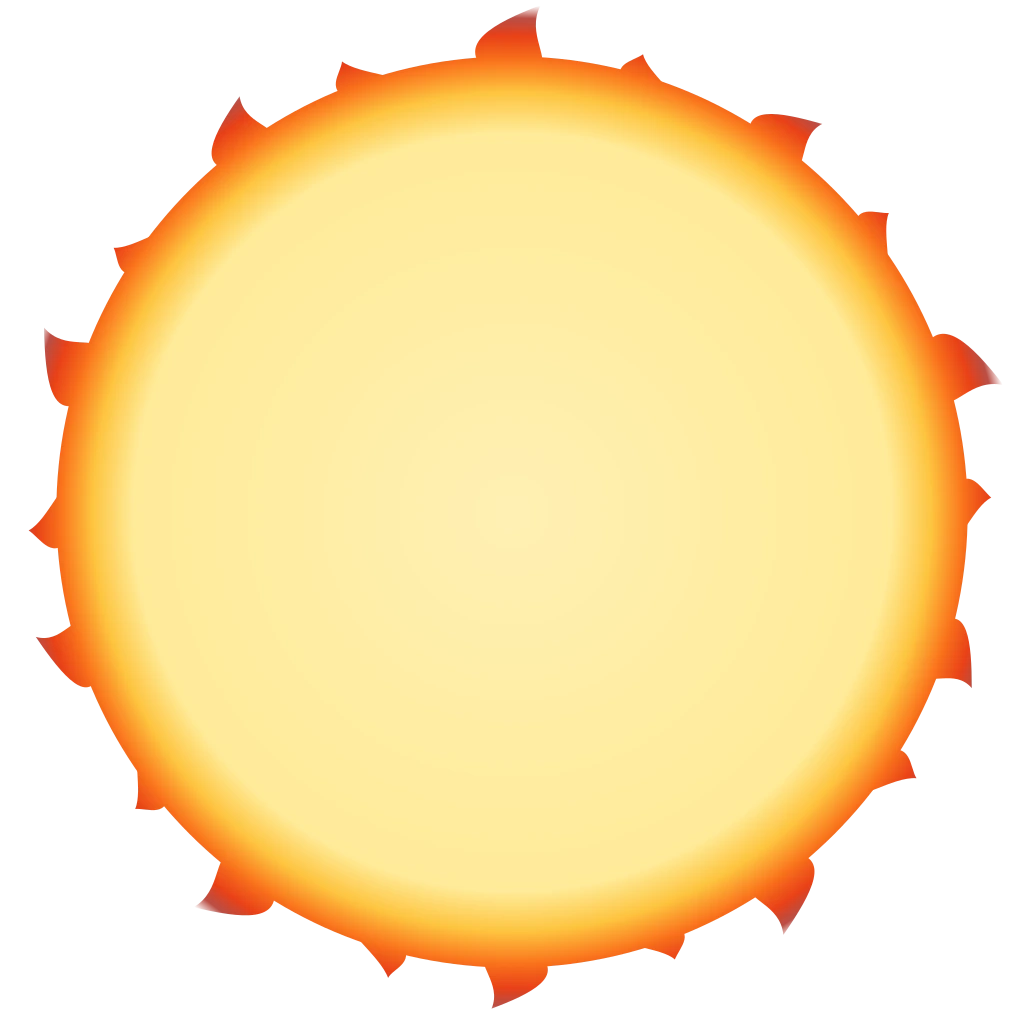
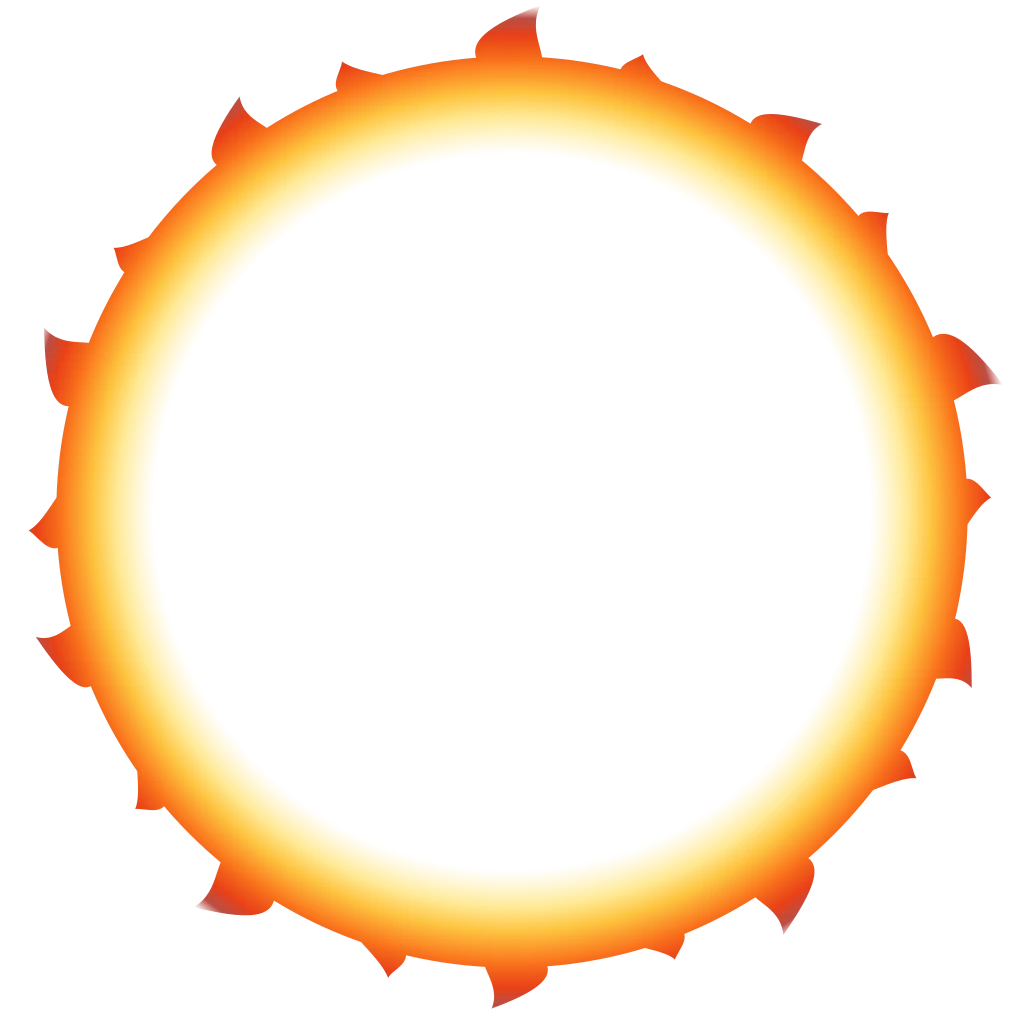
Attempt to fix animation on safari

diff --git a/src/app/globals.css b/src/app/globals.css
@@ -59,7 +59,11 @@
      layer so the clip-path animation runs on the compositor. */
   .photo-reveal {
     will-change: clip-path;
-    animation: photo-reveal 2.6s cubic-bezier(0.65, 0, 0.35, 1) 0s both;
+    /* WebKit doesn't reliably layerize on will-change: clip-path alone */
+    transform: translateZ(0);
+    /* the 0.25s delay lets the photo + ring decodes finish before motion
+       starts, avoiding dropped frames at ignition on mobile */
+    animation: photo-reveal 2.6s cubic-bezier(0.65, 0, 0.35, 1) 0.25s both;
   }
 }
 
@@ -91,7 +95,8 @@
     pointer-events: none;
     background: url("/flame-ring.webp") center / 100% 100% no-repeat;
     will-change: transform, opacity;
-    animation: flame-expand 2.6s cubic-bezier(0.65, 0, 0.35, 1) 0s both;
+    /* delay matches .photo-reveal — the two must stay in lockstep */
+    animation: flame-expand 2.6s cubic-bezier(0.65, 0, 0.35, 1) 0.25s both;
   }
 
   /* breathing variant: cross-fades between two static gradients via an

diff --git a/scripts/flame-ring.py b/scripts/flame-ring.py
@@ -64,9 +64,14 @@ def build():
     # the fire lives entirely in the outer rim: the photo's clip edge sits
     # at ~83% of the element radius throughout the reveal (constant-ratio
     # animation), so the whole gold->orange->ember ramp is packed beyond it
+    # the interior is transparent: it is normally covered by the photo, but
+    # browsers that animate clip-path on the main thread (Safari) can lag a
+    # frame behind the composited ring — a pale fill would flash as a white
+    # inner border, transparency just shows the dark page
     stops = [
-        (0.00, "hsl(48 100% 85%)", 1.0),
-        (0.74, "hsl(48 100% 80%)", 1.0),
+        (0.00, "hsl(48 100% 85%)", 0.0),
+        (0.70, "hsl(48 100% 85%)", 0.0),
+        (0.77, "hsl(48 100% 80%)", 1.0),
         (0.82, "hsl(42 98% 62%)", 1.0),
         (0.88, "hsl(24 96% 55%)", 1.0),
         (0.93, "hsl(12 90% 48%)", 0.95),